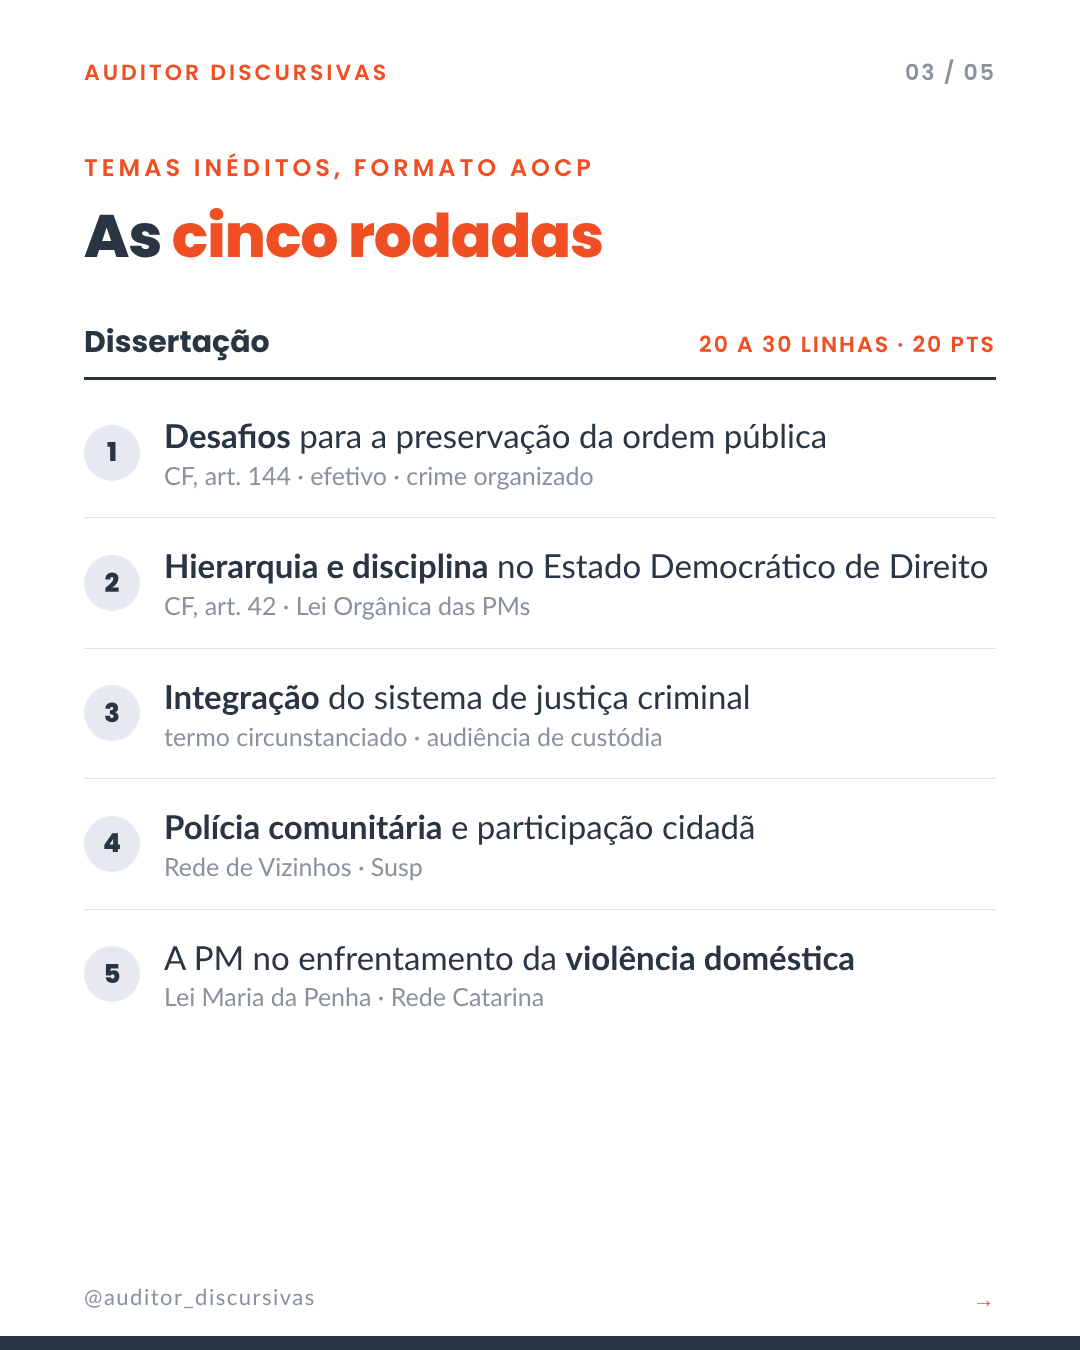
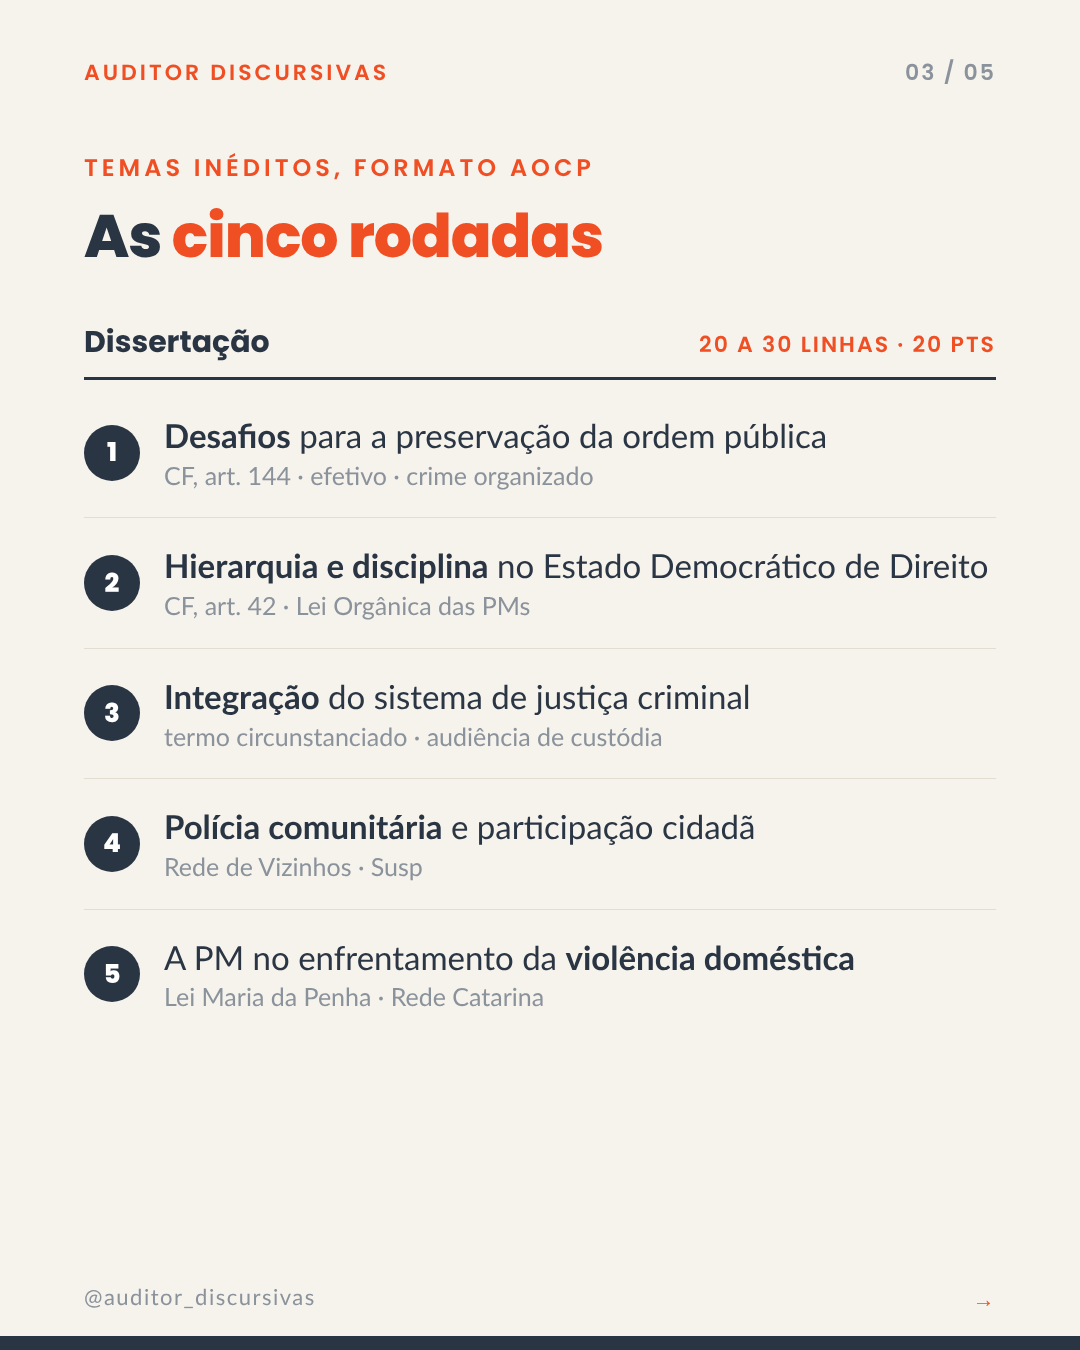
PM-SC: novas cores (capa e 1º story navy, demais creme)
Claude-Session: https://claude.ai/code/session_01DzGKEnbhB4TiD3dxmsA2Fk

diff --git a/fontes/campanha-pmsc/carrossel_pmsc.html b/fontes/campanha-pmsc/carrossel_pmsc.html
@@ -150,10 +150,43 @@ body{background:#D9DEE4;font-family:'Lato',sans-serif;padding:40px;display:flex;
 .rd .t{font-size:33px}
 .capa .pdf{top:720px}
 .rd .s{display:block;font-size:25px;color:var(--cinza);margin-top:2px;font-family:'Lato'}
+</style><style>
+/* v2 (31/10): capa e 1º story em navy; demais em creme neutro */
+.slide,.story{background:#F6F2EC}
+.claro{background:#F6F2EC}
+.slide.dark,.story.dark{background:linear-gradient(160deg,#2A3544 0%,#323F51 100%)}
+.dark .marca,.dark .st-marca{color:#F04E23}
+.dark .contador{color:#9AA5B3}
+.dark .eyebrow{color:#FFB39E}
+.dark .h1,.dark .st-h{color:#fff}
+.dark .h1 em,.dark .st-h em{color:#F04E23}
+.dark .sub,.dark .st-sub{color:#D6DDE6}
+.dark .sub b,.dark .st-sub b{color:#fff}
+.dark .rod{color:#9AA5B3}
+.dark .faixa-n{background:#F04E23}
+.dark .pills span{background:transparent;color:#E6EAF0;border-color:#5A6676}
+.dark .pills span.on{background:#F04E23;border-color:#F04E23;color:#fff}
+.dark .pdf .pg{border-color:#3C4A5D;box-shadow:0 18px 40px rgba(0,0,0,.35)}
+.dark .pdf .pg.b{background:#E6EAF0}.dark .pdf .pg.c{background:#F7B79E}
+.dark .st-box{background:rgba(255,255,255,.06);border-color:#4A586B}
+.dark .st-box .li{color:#E6EAF0}.dark .st-box .li b{color:#fff}
+.dark .st-box .li .k{background:#F04E23;color:#fff}
+.item,.st-box{background:#fff;border-color:#E3DCD0}
+.item .ic,.rd .k{background:#2A3544;color:#fff}
+.item.dest{background:#2A3544;border-color:#2A3544}
+.item.dest .t,.item.dest .t b{color:#fff}
+.item.dest .ic{background:#F04E23}
+.cmp.nao{background:#fff;border-color:#E3DCD0}
+.cmp.sim{background:#fff;border-color:#2A3544;border-width:3px}
+.cmp.sim .r{color:#2A3544}
+.rd{border-bottom-color:#E3DCD0}
+.palavra{background:#2A3544;color:#fff;border:4px solid #F04E23}
+.faixa-n{background:#2A3544}
+.capa .pdf{top:600px}
 </style></head>
 <body>
 <!-- 01 CAPA -->
-<div class="slide claro capa" data-n="01">
+<div class="slide dark capa" data-n="01">
   <div class="topo"><div class="marca">Auditor Discursivas</div><div class="contador">01 / 05</div></div>
   <div class="corpo">
     <div class="capa-txt">
@@ -246,7 +279,7 @@ body{background:#D9DEE4;font-family:'Lato',sans-serif;padding:40px;display:flex;
 </div>
 
 <!-- STORIES -->
-<div class="story claro" data-n="st01">
+<div class="story dark" data-n="st01">
   <div class="st-marca">Auditor Discursivas</div>
   <div class="st-in">
     <div class="eyebrow" style="font-size:30px">Aula gratuita · PDF</div>
@@ -260,7 +293,7 @@ body{background:#D9DEE4;font-family:'Lato',sans-serif;padding:40px;display:flex;
   </div>
 </div>
 
-<div class="story" data-n="st02" style="background:#fff">
+<div class="story" data-n="st02">
   <div class="st-marca">Auditor Discursivas</div>
   <div class="st-in" style="gap:30px">
     <div class="eyebrow" style="font-size:30px">Prévia da aula</div>
